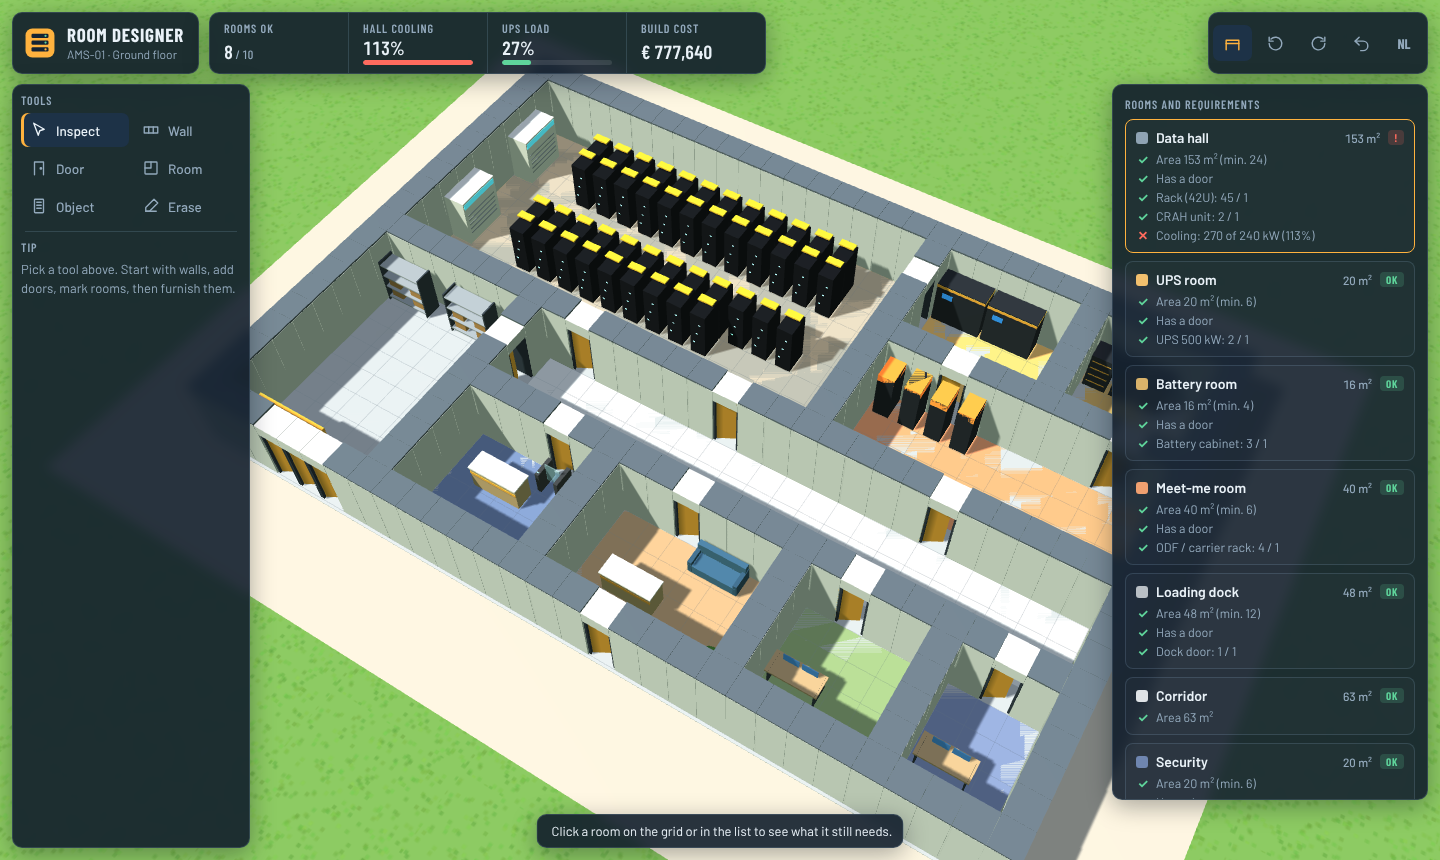
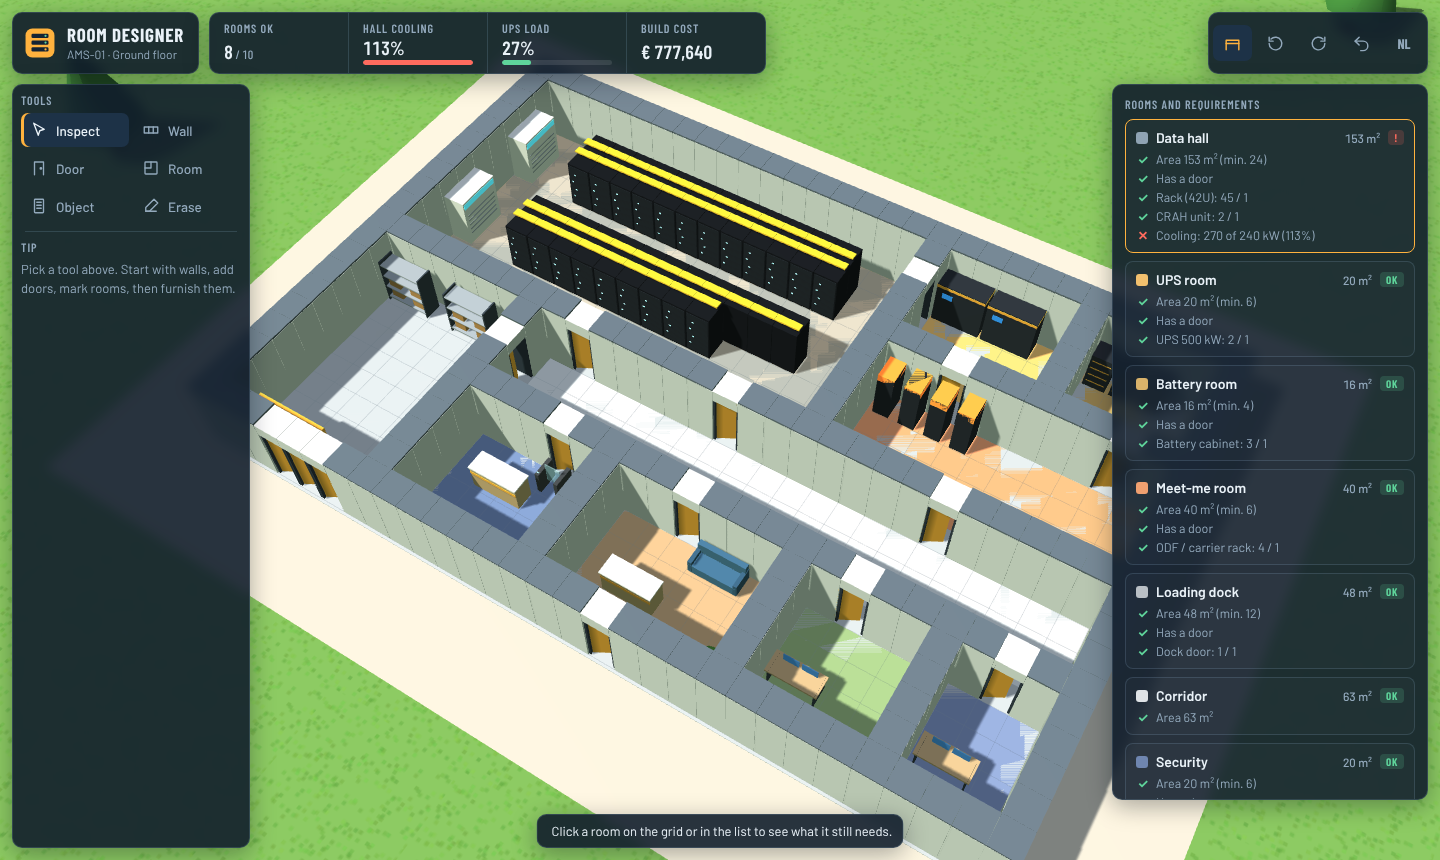
Racks stand flush in rows in the room designer
Claude-Session: https://claude.ai/code/session_01CnJtxK4fucR7Roce3eEarF

diff --git a/docs/concept/room-designer-v1.html b/docs/concept/room-designer-v1.html
@@ -222,7 +222,7 @@ function example() {
   fillRoom(20, 7, 29, 10, "mmr"); fillRoom(2, 12, 7, 19, "dock"); fillRoom(9, 12, 29, 14, "corridor");
   fillRoom(9, 16, 13, 19, "security"); fillRoom(15, 16, 20, 19, "reception"); fillRoom(22, 16, 25, 19, "customer"); fillRoom(27, 16, 29, 19, "noc");
   // data hall: racks + CRAH (cooling deliberately tight)
-  for (const z of [3, 4, 7, 8]) for (let i = 5; i <= 16; i++) if (!(z === 8 && i > 13)) addObj("rack", i, z, 0);
+  for (const z of [3, 4, 7, 8]) for (let i = 5; i <= 16; i++) if (!(z === 8 && i > 13)) addObj("rack", i, z, (z === 3 || z === 7) ? 2 : 0);
   addObj("crah", 2, 3, 0); addObj("crah", 2, 7, 0);
   addObj("ups", 20, 2, 0); addObj("ups", 22, 2, 0);
   addObj("battery", 26, 2); addObj("battery", 27, 2); addObj("battery", 28, 2);
@@ -299,7 +299,7 @@ function model(type) {
   const g = new THREE.Group(); const o = OBJS[type];
   const W = o.w, D = o.d;
   switch (type) {
-    case "rack": mesh(box(0.62, 2.1, 0.95), 0x23282f, g, 0, 1.05, 0, { roughness: 0.5, metalness: 0.4 }); for (let k = 0; k < 3; k++) mesh(box(0.08, 0.05, 0.02), 0x5fd49b, g, -0.15 + k * 0.12, 0.6 + k * 0.5, 0.48, { emissive: 0x5fd49b, emissiveIntensity: 1 }); mesh(box(0.62, 0.06, 0.3), 0xffc533, g, 0, 2.3, -0.2); break;
+    case "rack": mesh(box(0.985, 2.1, 0.95), 0x23282f, g, 0, 1.05, 0, { roughness: 0.5, metalness: 0.4 }); mesh(box(0.9, 1.95, 0.02), 0x2e353e, g, 0, 1.05, 0.48, { roughness: 0.6, metalness: 0.3 }); for (let k = 0; k < 4; k++) mesh(box(0.08, 0.05, 0.02), 0x5fd49b, g, -0.3 + (k % 2) * 0.12, 0.5 + k * 0.38, 0.5, { emissive: 0x5fd49b, emissiveIntensity: 1 }); mesh(box(1.0, 0.06, 0.3), 0xffc533, g, 0, 2.3, -0.2); break;
     case "crah": mesh(box(0.9, 2.1, 1.9), 0xf1f4f6, g, 0, 1.05, 0); mesh(box(0.92, 0.25, 1.8), 0x55d2f2, g, 0, 1.9, 0, { emissive: 0x55d2f2, emissiveIntensity: 0.35 }); for (let k = 0; k < 5; k++) mesh(box(0.02, 0.05, 1.6), 0x9aa4ad, g, 0.46, 0.5 + k * 0.22, 0); break;
     case "ups": mesh(box(1.9, 1.9, 0.85), 0x404a55, g, 0, 0.95, 0, { metalness: 0.4, roughness: 0.4 }); mesh(box(0.4, 0.25, 0.02), 0x0f2236, g, -0.5, 1.4, 0.43, { emissive: 0x2a8ad8, emissiveIntensity: 0.8 }); mesh(box(1.92, 0.12, 0.87), 0xffb23e, g, 0, 1.8, 0); break;
     case "battery": mesh(box(0.85, 1.6, 0.8), 0x2f353c, g, 0, 0.8, 0); for (let k = 0; k < 4; k++) mesh(box(0.7, 0.04, 0.02), 0xffb23e, g, 0, 0.3 + k * 0.35, 0.41); break;

diff --git a/docs/game-design.md b/docs/game-design.md
@@ -75,6 +75,7 @@ Elke locatie toont vooraf de **beschikbare netcapaciteit (MVA)** en de **glasvez
 
 - **Koelmachines** buiten en **CRAH-units** in de zalen, elk met een capaciteit in kW.
 - Elke rack produceert warmte, afhankelijk van de klant. De koelbalk toont de belasting tegenover de capaciteit.
+- Racks staan **aaneengesloten in rijen**, zonder ruimte ertussen. Je plaatst ze rij voor rij (slepen), en twee rijen staan rug aan rug of met de voorkanten naar elkaar.
 - **Warme en koude gangen** en **gangafscherming** verhogen het rendement.
 - De **warmteweergave** kleurt racks van groen naar rood, zodat je ziet waar het te warm wordt.
 - Regel: plaats je meer racks, dan moet je eerst de koelcapaciteit verhogen.
